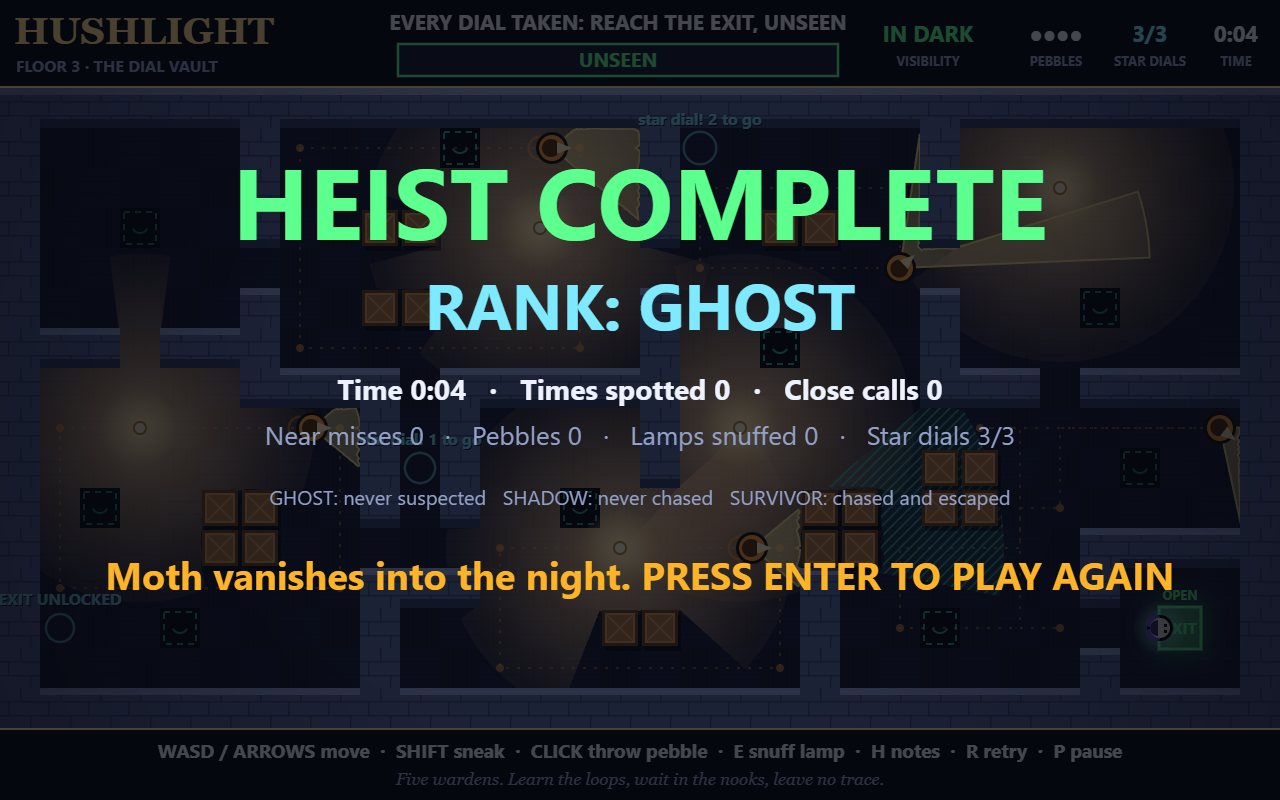
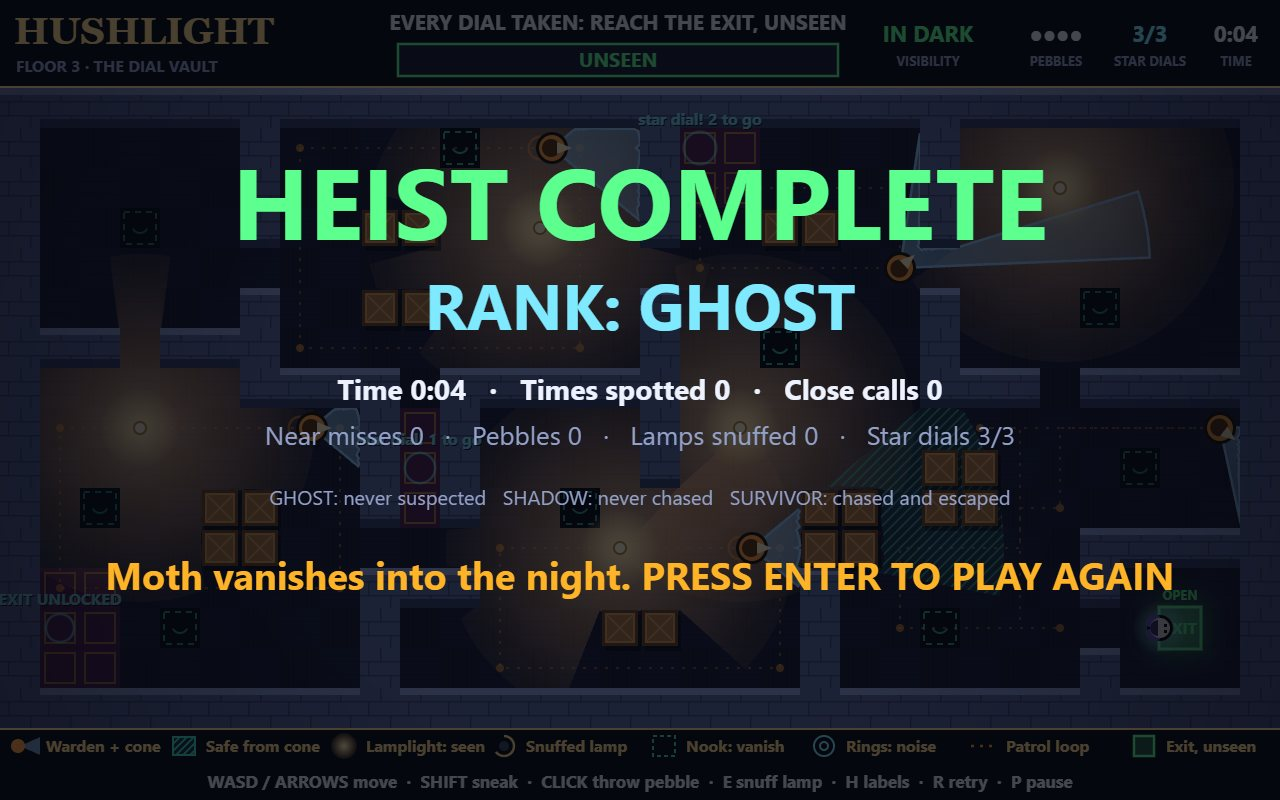
Blue calm cones, thief's notes as a bottom strip, display rugs under the star dials

diff --git a/game/src/hud.js b/game/src/hud.js
@@ -12,15 +12,12 @@ const STATUS_STYLE = {
   SPOTTED: { color: PALETTE.bad, label: 'SPOTTED! RUN AND HIDE' },
 };
 
-const NOTES = { x: 6, y: HUD_TOP + 312, width: 348, height: 290 };
-
 export function drawHud(ctx, world) {
   drawTopBar(ctx, world);
   drawAwarenessMeter(ctx, world);
   drawStatColumns(ctx, world);
   drawControlsBar(ctx, world);
   drawFieldLabels(ctx, world);
-  if (world.showNotes && !mothUnderNotes(world)) drawThiefNotes(ctx);
 }
 
 // Left: the game and floor. Centre: what to do right now.
@@ -104,58 +101,38 @@ function drawControlsBar(ctx, world) {
   ctx.fillRect(0, y, VIEW_W, HUD_BOTTOM);
   ctx.fillStyle = PALETTE.lamp;
   ctx.fillRect(0, y, VIEW_W, 2);
+  drawThiefNotes(ctx, y + 24);
   ctx.textAlign = 'center';
-  ctx.font = 'bold 19px system-ui, sans-serif';
+  ctx.font = 'bold 17px system-ui, sans-serif';
   ctx.fillStyle = PALETTE.text;
-  ctx.fillText('WASD / ARROWS move  ·  SHIFT sneak  ·  CLICK throw pebble  ·  E snuff lamp  ·  H notes  ·  R retry  ·  P pause', VIEW_W / 2, y + 30);
-  ctx.fillStyle = PALETTE.dim;
-  ctx.font = 'italic 17px Georgia, serif';
-  ctx.fillText(world.level.hint, VIEW_W / 2, y + 57);
+  ctx.fillText('WASD / ARROWS move  ·  SHIFT sneak  ·  CLICK throw pebble  ·  E snuff lamp  ·  H labels  ·  R retry  ·  P pause', VIEW_W / 2, y + 60);
 }
 
-function mothUnderNotes(world) {
-  const { player } = world;
-  return player.x < NOTES.x + NOTES.width + 14 && player.y + HUD_TOP > NOTES.y - 14;
-}
-
-// The thief's notes: every sign on the floor and what it means. H folds them away.
-function drawThiefNotes(ctx) {
-  const { x, y, width, height } = NOTES;
-  ctx.fillStyle = 'rgba(8, 10, 20, 0.94)';
-  ctx.fillRect(x, y, width, height);
-  ctx.strokeStyle = PALETTE.lamp;
-  ctx.lineWidth = 2.5;
-  ctx.strokeRect(x, y, width, height);
-  ctx.textAlign = 'left';
-  ctx.fillStyle = PALETTE.lamp;
-  ctx.font = 'bold 21px Georgia, serif';
-  ctx.fillText("THIEF'S NOTES", x + 14, y + 30);
-  ctx.font = '14px system-ui, sans-serif';
-  ctx.fillStyle = PALETTE.dim;
-  ctx.fillText('H folds them', x + width - 98, y + 28);
-
-  const rows = [
-    [drawWardenSign, 'Warden + cone: what it sees'],
-    [drawHatchSign, 'Hatched: safe behind crates'],
-    [drawLampSign, 'Lamplight: seen from afar'],
-    [drawSnuffedSign, 'E snuffs a lamp for 14 s'],
-    [drawNookSign, 'Shadow nook: stand still, vanish'],
-    [drawRingSign, 'Rings: noise and warden steps'],
-    [drawRouteSign, "Dotted: a warden's patrol loop"],
-    [drawExitSign, 'Exit: opens with every star dial'],
+// The thief's notes, one strip along the bottom: every sign on the floor and what it means.
+function drawThiefNotes(ctx, y) {
+  const notes = [
+    [drawWardenSign, 'Warden + cone'],
+    [drawHatchSign, 'Safe from cone'],
+    [drawLampSign, 'Lamplight: seen'],
+    [drawSnuffedSign, 'Snuffed lamp'],
+    [drawNookSign, 'Nook: vanish'],
+    [drawRingSign, 'Rings: noise'],
+    [drawRouteSign, 'Patrol loop'],
+    [drawExitSign, 'Exit, unseen'],
   ];
-  ctx.font = 'bold 18px system-ui, sans-serif';
-  rows.forEach(([drawSign, text], i) => {
-    const rowY = y + 62 + i * 29;
-    drawSign(ctx, x + 28, rowY - 6);
-    ctx.fillStyle = PALETTE.text;
+  const cell = VIEW_W / notes.length;
+  ctx.font = 'bold 16px system-ui, sans-serif';
+  notes.forEach(([drawSign, text], i) => {
+    const x = i * cell + 24;
+    drawSign(ctx, x, y - 6);
+    ctx.fillStyle = PALETTE.lamp;
     ctx.textAlign = 'left';
-    ctx.fillText(text, x + 54, rowY);
+    ctx.fillText(text, x + 22, y);
   });
 }
 
 function drawWardenSign(ctx, x, y) {
-  ctx.fillStyle = 'rgba(255, 232, 150, 0.6)';
+  ctx.fillStyle = `rgba(${PALETTE.coneCalm}, 0.7)`;
   ctx.beginPath();
   ctx.moveTo(x - 4, y);
   ctx.lineTo(x + 16, y - 9);

diff --git a/game/src/render.js b/game/src/render.js
@@ -55,9 +55,28 @@ function drawFloor(ctx, level) {
       }
     }
   }
+  drawRugs(ctx, level);
   ctx.globalCompositeOperation = 'lighter';
   ctx.drawImage(lightLayerFor(level), 0, 0);
   ctx.globalCompositeOperation = 'source-over';
+}
+
+// Each star dial sits on a plum display rug, so the loot rooms stand out from the halls.
+function drawRugs(ctx, level) {
+  for (const relic of level.relics) {
+    const col = Math.floor(relic.x / TILE);
+    const row = Math.floor(relic.y / TILE);
+    for (let r = row - 1; r <= row + 1; r++) {
+      for (let c = col - 1; c <= col + 1; c++) {
+        if (level.isSolidTile(c, r)) continue;
+        ctx.fillStyle = '#4a1f4f';
+        ctx.fillRect(c * TILE, r * TILE, TILE, TILE);
+        ctx.strokeStyle = '#c9963f';
+        ctx.lineWidth = 1.5;
+        ctx.strokeRect(c * TILE + 5, r * TILE + 5, TILE - 10, TILE - 10);
+      }
+    }
+  }
 }
 
 function drawNooks(ctx, level, time) {
@@ -275,16 +294,16 @@ function drawVisionCone(ctx, level, guard) {
   const tint =
     guard.state === 'chase' ? PALETTE.coneAlert : guard.state === 'patrol' && guard.awareness < 0.05 ? PALETTE.coneCalm : PALETTE.coneSuspicious;
   const fill = ctx.createRadialGradient(guard.x, guard.y, 6, guard.x, guard.y, GUARD_TUNING.sightRange);
-  fill.addColorStop(0, `rgba(${tint}, 0.62)`);
-  fill.addColorStop(1, `rgba(${tint}, 0.2)`);
+  fill.addColorStop(0, `rgba(${tint}, 0.66)`);
+  fill.addColorStop(1, `rgba(${tint}, 0.26)`);
   ctx.beginPath();
   ctx.moveTo(points[0].x, points[0].y);
   for (let i = 1; i < points.length; i++) ctx.lineTo(points[i].x, points[i].y);
   ctx.closePath();
   ctx.fillStyle = fill;
   ctx.fill();
-  ctx.strokeStyle = `rgba(${tint}, 0.85)`;
-  ctx.lineWidth = 2;
+  ctx.strokeStyle = `rgba(${tint}, 0.95)`;
+  ctx.lineWidth = 2.5;
   ctx.stroke();
 }
 

diff --git a/game/src/lighting.js b/game/src/lighting.js
@@ -31,9 +31,9 @@ function paintLampPool(ctx, level, lamp) {
   }
   ctx.closePath();
   const pool = ctx.createRadialGradient(lamp.x, lamp.y, 4, lamp.x, lamp.y, reach);
-  pool.addColorStop(0, 'rgba(255, 206, 120, 0.78)');
-  pool.addColorStop(0.5, 'rgba(255, 186, 96, 0.44)');
-  pool.addColorStop(1, 'rgba(255, 176, 90, 0.1)');
+  pool.addColorStop(0, 'rgba(255, 196, 110, 0.7)');
+  pool.addColorStop(0.5, 'rgba(255, 170, 80, 0.4)');
+  pool.addColorStop(1, 'rgba(255, 160, 70, 0.1)');
   ctx.fillStyle = pool;
   ctx.fill();
 }

diff --git a/game/src/config.js b/game/src/config.js
@@ -60,7 +60,7 @@ export const PALETTE = {
   player: '#f4f1e8',
   playerHidden: '#3fd6c2',
   guard: '#ff9d3c',
-  coneCalm: '255, 232, 150',
+  coneCalm: '150, 205, 255',
   coneSuspicious: '255, 170, 40',
   coneAlert: '255, 60, 60',
   text: '#eef2ff',
